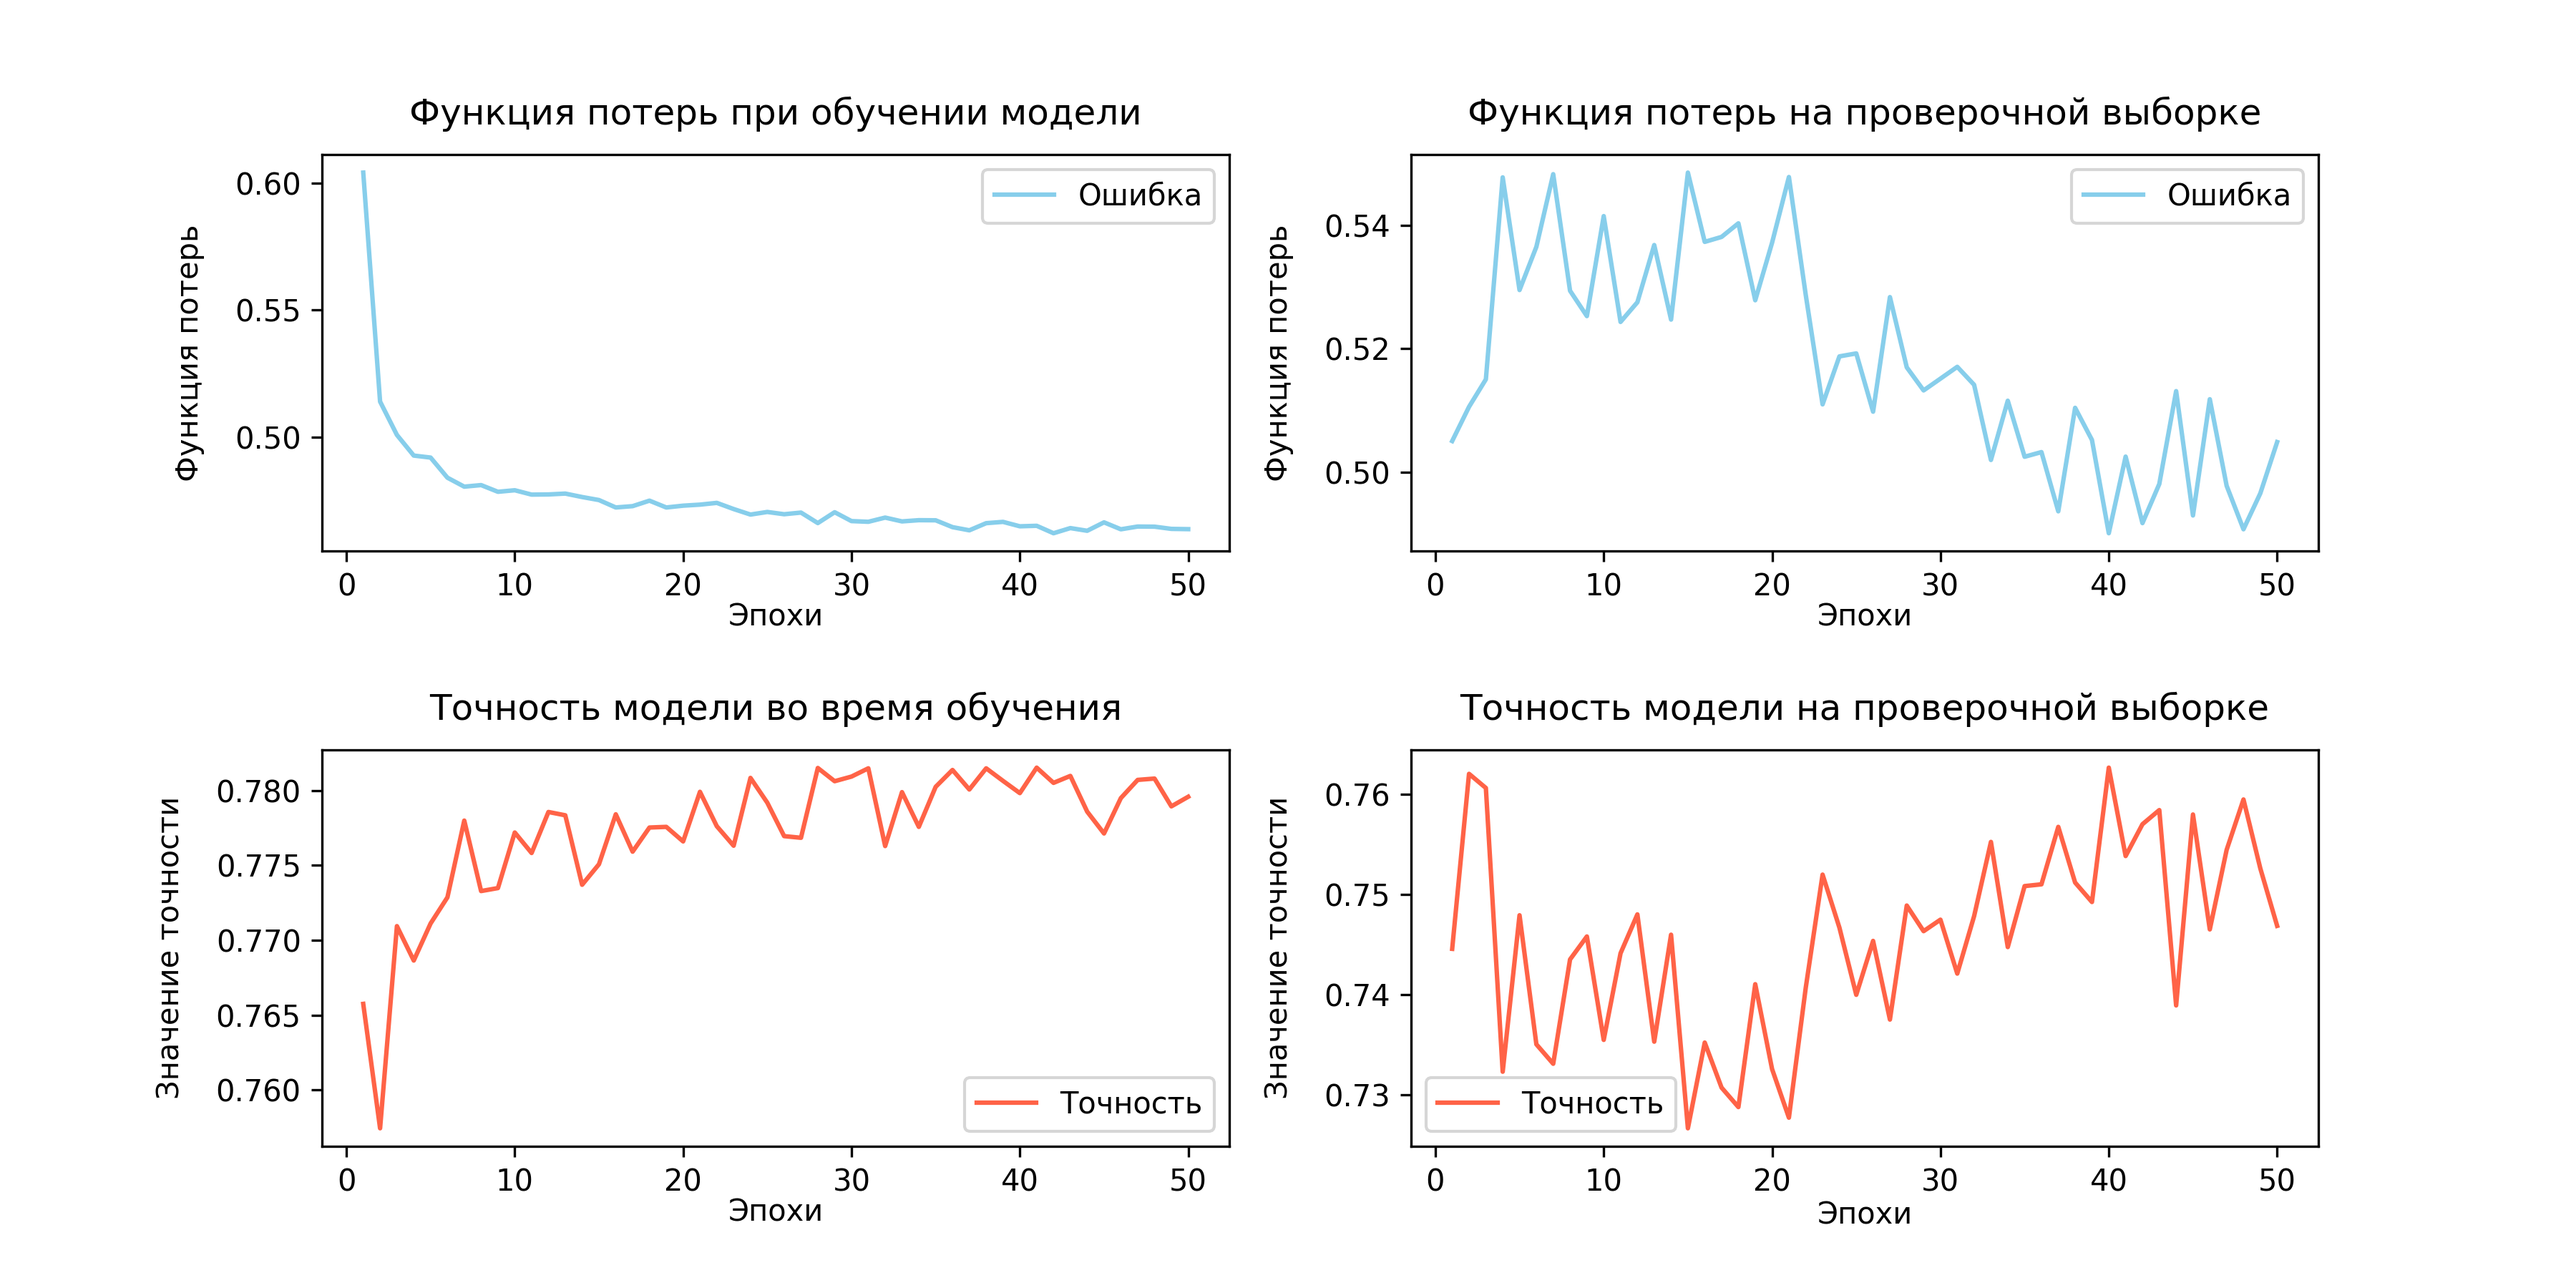
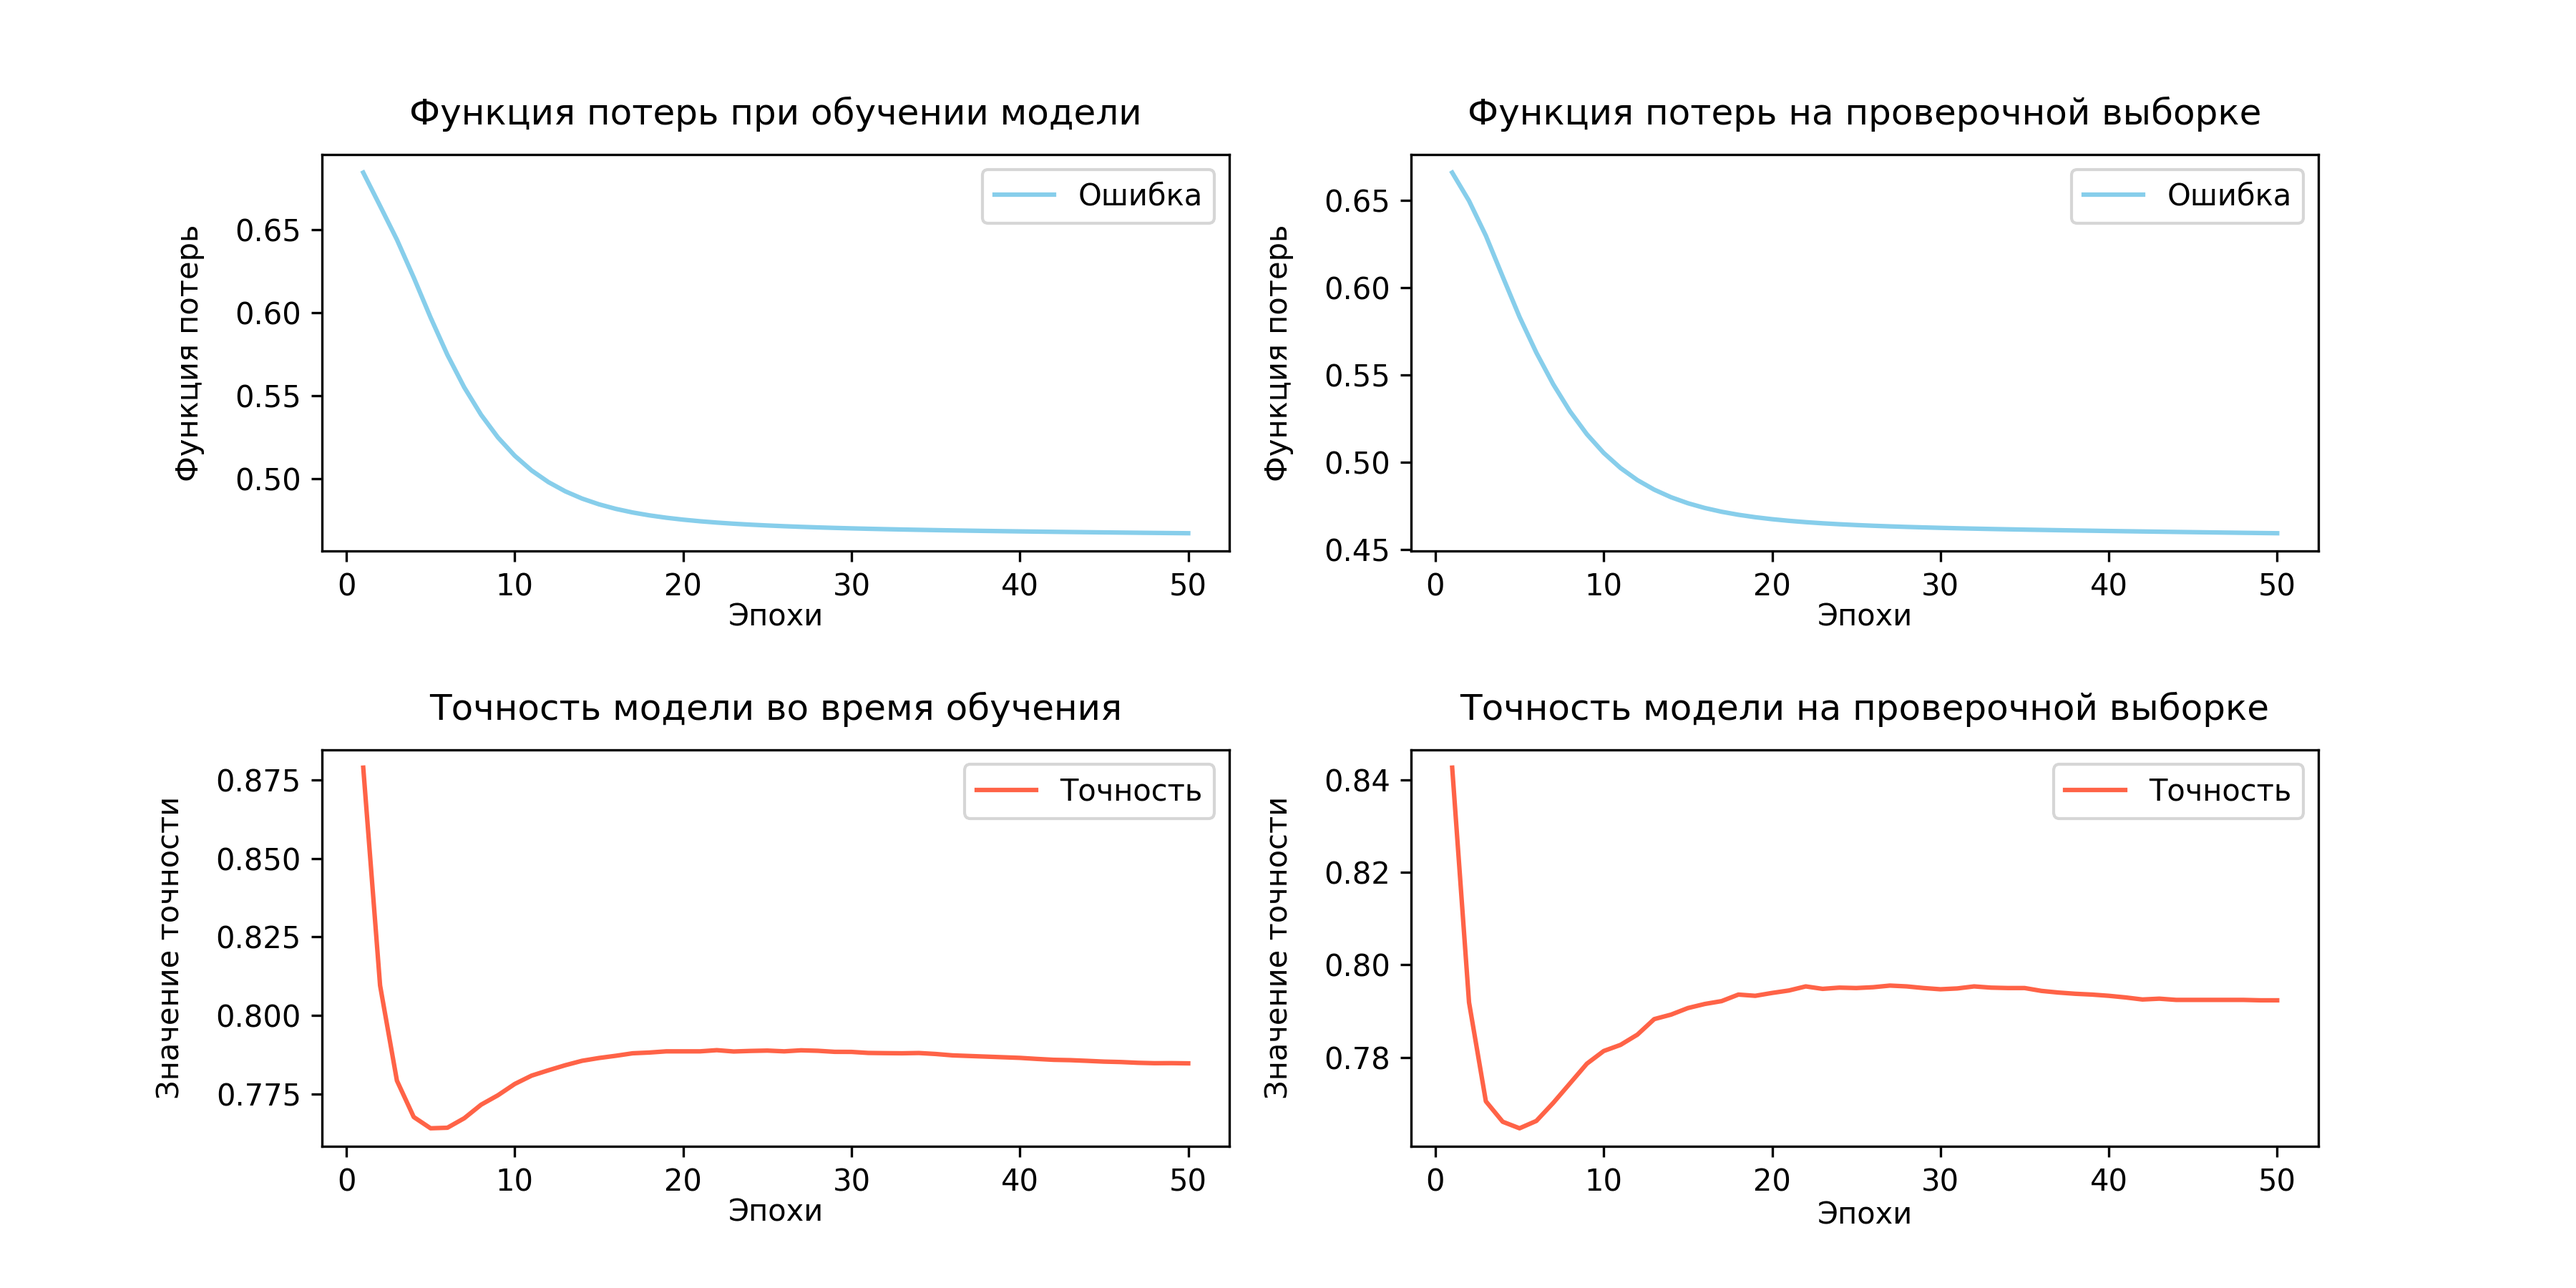
tuning parameters...

diff --git a/utils/models.py b/utils/models.py
@@ -8,7 +8,7 @@ from keras.layers import Input, Dense, Dropout
 from keras.models import Model
 from keras.utils import plot_model
 
-# Добавляем корневую папку проекта в sys.path
+# Добавляем корневую папку проекта в sys.path:
 sys.path.append(os.path.abspath(os.path.join(os.path.dirname(__file__), "..")))
 
 from utils.callbacks import early_stopping, reduce_lr
@@ -18,12 +18,14 @@ from utils.statistic import find_optimal_threshold, calculate_confusion_matrix
 
 def create_model(hidden_units: int) -> Model:
     input = Input(shape=(12,))
-    x = Dense(units=50, activation="relu")(input)
+    x = Dense(units=5, activation="relu")(input)
+    """
     x = Dropout(rate=0.2)(x)
     x = Dense(units=25, activation="relu")(x)
     x = Dropout(rate=0.2)(x)
     x = Dense(units=10, activation="relu")(x)
     x = Dropout(rate=0.1)(x)
+    """
     output = Dense(units=1, activation="sigmoid")(x)
 
     model = Model(inputs=input, outputs=output)
@@ -42,8 +44,8 @@ def create_model(hidden_units: int) -> Model:
         to_file=path,
         show_shapes=True,
         show_dtype=True,
-        show_layer_names=True,
-        show_layer_activations=True,
+        show_layer_names=False,
+        show_layer_activations=False,
         show_trainable=True,
         rankdir="TB",
     )
@@ -133,6 +135,3 @@ def evaluate_model(
     statistics["f1"] = f1_score
     statistics["auc"] = test_auc
     return statistics
-
-
-create_model(None)
